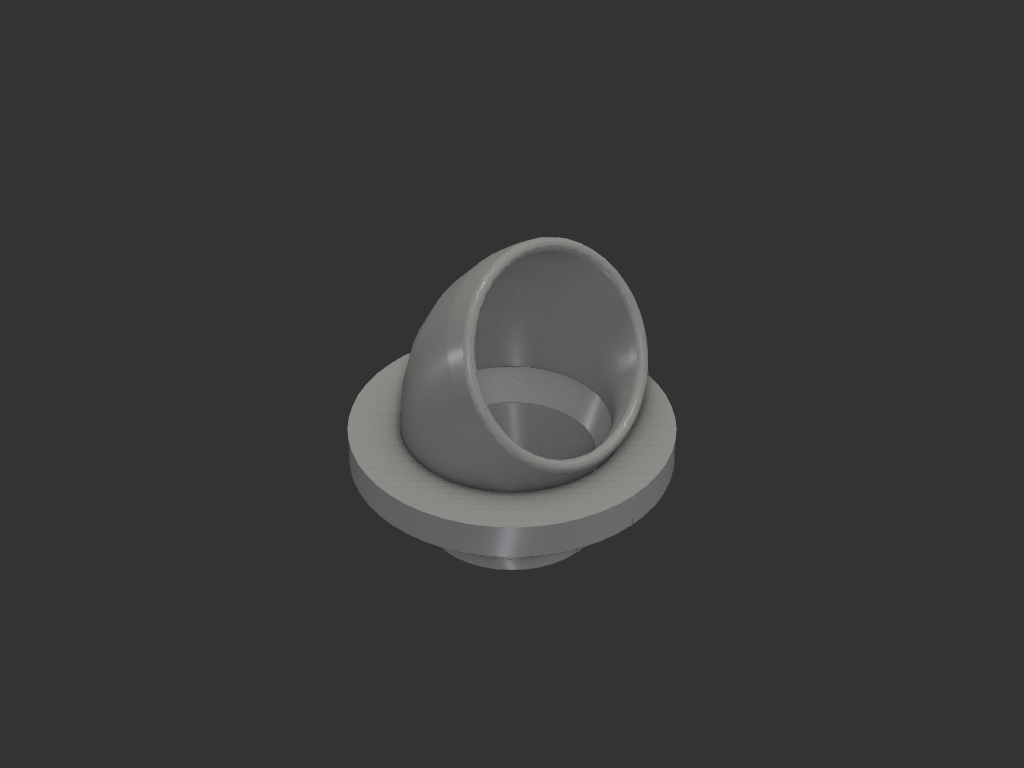
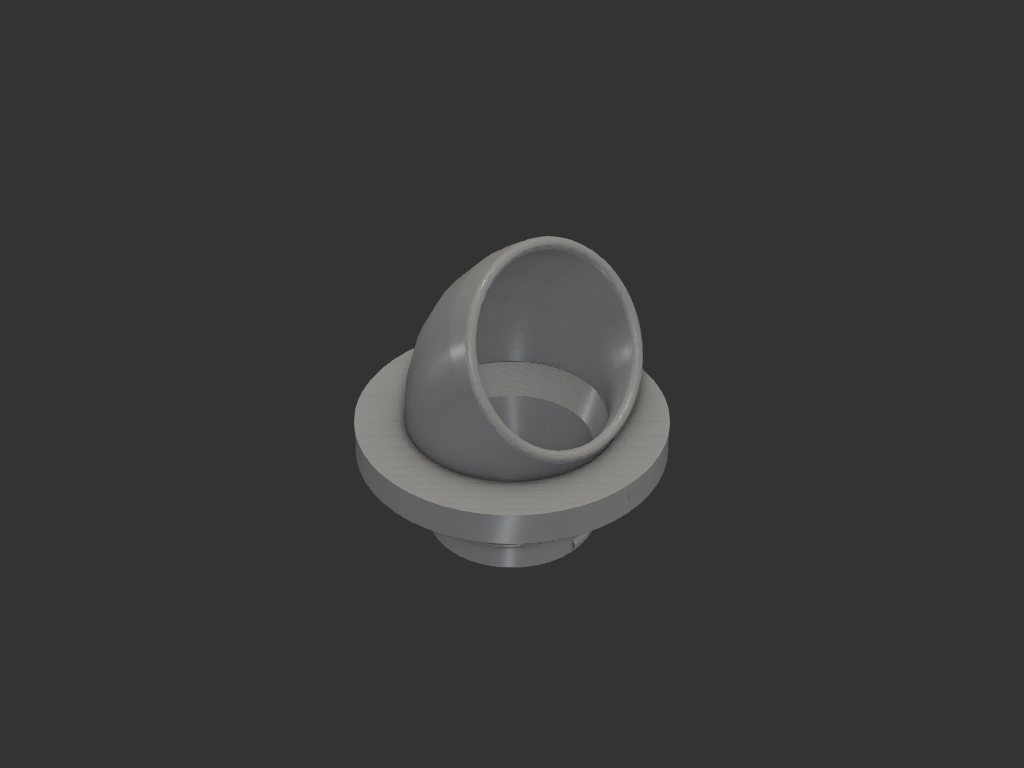
주방/식기세척기관_싱크대커버: 나사 여유 0.35 + 옆면 45도
두 번째 출력도 너트가 안 들어갔다. 모델 치수는 설계대로였고(칼라 산
r=15.500, 너트 골 r=15.050, 간섭 0) 문제는 출력으로 옮겨질 때였다.

① 여유 0.15 가 FDM 공차보다 작았다. 바깥 +0.1~0.2 / 구멍 -0.1~0.2 가
   두 파츠에 각각 작용해 설계 여유를 통째로 먹는다. 금속 나사 기준으로
   잡은 것이 착오. 0.15 → 0.35 (축 방향은 0.15 로 따로).

② 옆면이 수평에서 25도였다. 세워 뽑으니 아래 옆면이 65도 오버행이 되어
   처지고 골을 메웠다. 뿌리 반폭을 산 반폭 + 반지름 길이로 정해 정확히
   45도로 만들었다 (모델에서 기울기 1.001 = 45.0도 실측).

③ 파일럿 턱(⌀31.0)이 너트 보어(⌀30.3)보다 커서 상판 1mm 앞에서 막고
   있었다. 제거. 중심은 나사산 꼭대기(z=-0.9, 상판 속)가 잡는다.

45도로 만들면 프로파일이 넓어져 피치를 2.5 → 4.5 로 키웠다. 짝 나사산
뿌리폭 3.90 에 이웃 산 틈 0.60 이라 자기교차도 없다.

칼라살 0.65 → 0.55, 조임 400N 에서 인장 8.0 MPa (층간 30, 여유 3.8배).
너트에서 261 mm³ 가 실제로 깎인 것을 확인했다.

Claude-Session: https://claude.ai/code/session_01ADtXUDQy3sb4YV2DNysYDr

diff --git a/models/주방/식기세척기관_싱크대커버/cover.py b/models/주방/식기세척기관_싱크대커버/cover.py
@@ -60,7 +60,8 @@ from models.주방.식기세척기관_싱크대커버.params import (
     NUT_OD,
     THREAD_DEPTH,
     THREAD_FIT,
-    THREAD_FLANK,
+    THREAD_CREST,
+    THREAD_FIT_AX,
     THREAD_EMB,
     THREAD_GAP,
     THREAD_LEN,
@@ -94,9 +95,10 @@ def build_cover():
              - Plane.XY * Circle((ORING_MEAN - ORING_W) / 2))
 
     with BuildPart() as part:
-        # 칼라 — 맨 위 2mm 는 ⌀31.0 (구멍 안에서 중심을 잡는다),
-        # 그 아래는 나사 골지름 ⌀30.2
-        Cylinder(COLLAR_OD / 2, COLLAR_PILOT, align=TOP)
+        # 칼라 — 나사 골지름 ⌀29.6. 파일럿 턱은 없다 (너트를 막았다).
+        # 구멍 안에서의 중심은 나사산 꼭대기(⌀31.0)가 잡아준다
+        if COLLAR_PILOT > 0:
+            Cylinder(COLLAR_OD / 2, COLLAR_PILOT, align=TOP)
         with Locations((0, 0, -COLLAR_PILOT)):
             Cylinder(COLLAR_ROOT / 2, COLLAR_LEN - COLLAR_PILOT, align=TOP)
         Cylinder(FLANGE_D / 2, FLANGE_T, align=BOT)         # 플랜지 (상판 위)
@@ -145,22 +147,24 @@ THREAD_BOT = THREAD_TOP - THREAD_LEN
 THREAD_SEG = 4.0        # 한 번에 쓸어내는 길이 상한
 
 
-def _thread(grow=0.0):
-    """칼라 나사산. grow 를 주면 너트 쪽 여유 있는 짝이 된다.
+def _thread(radial=0.0, axial=0.0):
+    """칼라 나사산. radial/axial 을 주면 너트 쪽 여유 있는 짝이 된다.
 
     **빌더 밖에서** 만든다. 프로파일 평면의 x 축을 반지름 방향으로 고정해야
-    골 깊이가 의도대로 나온다 — 자동으로 두면 축 방향이 반지름이 되어
-    깊이가 pitch 만큼 깊어진다.
+    골 깊이가 의도대로 나온다.
 
-    그리고 **짧게 끊어서 이어 붙인다.** 한 번에 5 바퀴를 쓸면 프레네 프레임이
-    비틀려 솔리드가 자기교차하고, 불린이 조용히 망가진다 (합친 부피가 칼라
-    단품보다 작아지는 식으로 드러났다). is_frenet=False 로 피할 수는 있지만
-    그러면 프로파일이 기울어 깊이가 0.2 → 0.38 로 틀어진다.
+    옆면은 **정확히 45도**다 — 뿌리 반폭 a 를 산 반폭 b 에 반지름 길이를
+    더해서 정한다. 25도였을 때는 칼라를 세워 뽑으면 아래 옆면이 처져
+    골을 메웠다.
+
+    그리고 **짧게 끊어 이어 붙인다.** 한 번에 길게 쓸면 프레네 프레임이
+    비틀려 솔리드가 자기교차하고, 불린이 조용히 망가진다.
     """
     rmid = COLLAR_ROOT / 2 + THREAD_DEPTH / 2
-    d = THREAD_DEPTH / 2 + grow
-    a = THREAD_PITCH * THREAD_FLANK + grow
-    b = THREAD_PITCH * THREAD_FLANK * 0.5 + grow
+    d = THREAD_DEPTH / 2 + radial
+    run = 2 * d + THREAD_EMB
+    b = THREAD_CREST + axial
+    a = b + run                      # 옆면 45도
     nseg = max(1, math.ceil(THREAD_LEN / THREAD_SEG))
     seg = THREAD_LEN / nseg
     out = None
@@ -184,7 +188,7 @@ def _thread(grow=0.0):
 def build_nut():
     """너트 ② — 아래에서 칼라에 끼워 올려 조인다. 상판을 커버와 사이에 물고
     오링을 눌러준다. 조일 수 있으므로 상판 두께 편차를 그대로 흡수한다."""
-    mate = _thread(THREAD_FIT)
+    mate = _thread(THREAD_FIT, THREAD_FIT_AX)
     with BuildPart() as part:
         Cylinder(NUT_OD / 2, NUT_H, align=BOT)
         Cylinder(COLLAR_ROOT / 2 + THREAD_FIT, NUT_H, align=BOT, mode=Mode.SUBTRACT)

diff --git a/models/주방/식기세척기관_싱크대커버/README.md b/models/주방/식기세척기관_싱크대커버/README.md
@@ -38,7 +38,7 @@
 | | 파츠 | 역할 | 무게 |
 |---|---|---|---|
 | ① | `cover` | 상판 위 플랜지(아랫면 오링 홈) + 엘보 + 구멍을 지나는 칼라 | 17.4 g |
-| ② | `nut` | 아래에서 칼라에 끼워 올려 조인다. 상판을 물고 오링을 누른다 | 5.7 g |
+| ② | `nut` | 아래에서 칼라에 끼워 올려 조인다. 상판을 물고 오링을 누른다 | 6.9 g |
 
 조립:
 
@@ -97,15 +97,15 @@
 | 칼라 바깥 | ⌀**31.0** | 구멍 31.5 에 한쪽 0.25 |
 | 칼라 보어 | ⌀**28.5** | 22+6.35 최소원 28.35, 굵은부분 25.5 |
 | 칼라 벽 | **1.25** | 여기가 전부다 |
-| 칼라 길이 | 13 (파일럿 2 + 빈 1 + 나사 9) | 파일럿 ⌀31.0 이 구멍 안에서 중심을 잡는다 |
-| 나사 | 피치 **2.5**, 깊이 **0.6**, 골 ⌀29.8 | 물림 0.45. 남는 살 0.65. **3.6 바퀴** |
-| 나사 여유 | 0.15 (반지름) | |
+| 칼라 길이 | 15.5 (빈 2 + 나사 12) | **파일럿 턱 없음.** 나사산 꼭대기(z=−0.9)가 상판 속에서 중심을 잡는다 |
+| 나사 | 피치 **4.5**, 깊이 **0.70**, 골 ⌀29.6 | 옆면 **45°**. 물림 0.35. 남는 살 0.55. 2.7 바퀴 |
+| 나사 여유 | **0.35** 반지름 / 0.15 축 | FDM 공차를 견디려면 이만큼 필요하다 |
 | 플랜지 | ⌀**54** × **6** | 오링 굵기 3.5 에 맞춰 커졌다 |
 | 이음 모따기 | ⌀31 → ⌀34, **45°** | 가장 빠듯한 곳. 집중계수 3 → 1.8 |
 | 오링 홈 | **⌀38.0 ~ ⌀46.4**, 깊이 2.66 | **내경 38 × 굵기 3.5** (보유품). 눌림 24%, 채움 86% |
 | 엘보 | R 22, 60°, 보어 ⌀33, 벽 2 | |
 | 출구 나팔 | R 2.5 | 꺾이는 지점의 날카로운 모서리를 없앤다 |
-| 너트 | ⌀42 × 9, 홈 8 개 | 손으로 돌린다 |
+| 너트 | ⌀42 × **11**, 홈 8 개 | 피치가 굵어져 2.4 바퀴를 물려면 이만큼 필요 |
 | 상판 위 높이 | **38.8** | |
 
 오링 홈 안쪽 가장자리가 ⌀38.0 이라 구멍(31.5) 바깥 **단단한 상판 위에** 온전히
@@ -146,9 +146,9 @@
 
 | 부위 | 응력 | 여유 |
 |---|---|---|
-| 나사산 전단 (3.6 바퀴, 253 mm²) | 1.6 MPa | 19 배 |
+| 나사산 전단 (2.7 바퀴, 190 mm²) | 2.1 MPa | 14 배 |
 | 플랜지 굽힘 (유효 두께 3.34 = 6 − 홈 2.66) | 8.3 MPa | 6.1 배 |
-| 칼라 인장 (골에서 살 0.65mm) | 6.7 MPa | 4.5 배 |
+| 칼라 인장 (골에서 살 0.55mm) | 8.0 MPa | 3.8 배 |
 | **칼라–플랜지 이음** (모따기 Kt 1.8) | **9.2 MPa** | **3.3 배** ← 여기 |
 
 칼라 인장은 **층을 가로지르는 방향**이라 층간 강도 ~30 MPa 로 본다.
@@ -161,7 +161,51 @@
 필렛을 쓰려 했으나 실패했다 — 릴리프 안쪽이 칼라와 정확히 접해 모서리가
 생기지 않아 필렛이 안 걸렸고, 깔때기와 겹쳐 살을 0.6mm 로 깎기까지 했다.
 
-### 나사 깊이 — 0.4 는 모자랐다
+### 나사 — 두 번 실패하고 세 번째
+
+출력해 보니 두 번 다 너트가 안 들어갔다. 모델을 재보면 치수는 설계대로
+나와 있었다 (칼라 산 r=15.500, 너트 골 r=15.050, 간섭 0). 문제는
+**출력으로 옮겨질 때**였고, 원인이 둘이었다.
+
+**① 여유 0.15 는 FDM 공차보다 작다.**
+바깥 치수는 +0.1~0.2, 구멍은 −0.1~0.2 나온다. 두 파츠에 각각 작용하므로
+설계 여유를 통째로 먹는다. 금속 나사 기준으로 0.15 를 잡은 것이 착오였다.
+
+| 편차(각 면) | 0.15 일 때 | **0.35 일 때** |
+|---|---|---|
+| 0.10 | −0.05 간섭 | +0.15 |
+| 0.15 | −0.15 간섭 | **+0.05** |
+
+헐거우면 조임만 덜 되지만 빡빡하면 **조립 자체가 안 된다** — 위험이
+비대칭이라 넉넉한 쪽으로 간다.
+
+**② 옆면이 수평에서 25° 였다.**
+프로파일이 사다리꼴인데 너무 납작해서, 칼라를 세워 뽑으면 아래쪽 옆면이
+**65° 오버행**이 되어 처지고 골을 메웠다. 설계 간섭보다 실제로 더 끼었다.
+
+→ 뿌리 반폭을 산 반폭 + 반지름 길이로 정해 **정확히 45°** 로 만들었다
+(모델에서 1.001 기울기, 45.0° 로 실측 확인).
+
+45° 로 만들면 프로파일이 넓어져 피치도 같이 키워야 한다. 짝(너트) 나사산
+뿌리폭이 3.90 이라 피치 4.5 면 이웃 산까지 0.60 남는다.
+
+**③ 파일럿 턱이 너트를 1mm 앞에서 막고 있었다.**
+파일럿 ⌀31.0 이 너트 보어 ⌀30.3 보다 커서 못 지나갔다. 없앴다.
+구멍 안에서의 중심은 나사산 꼭대기(⌀31.0, z=−0.9 까지 올라옴)가 잡는다.
+
+| | 1 차 | 2 차 | **3 차** |
+|---|---|---|---|
+| 피치 | 2.0 | 2.5 | **4.5** |
+| 깊이 | 0.4 | 0.6 | **0.70** |
+| 여유(반지름) | 0.2 | 0.15 | **0.35** |
+| 옆면 각도 | 25° | 25° | **45°** |
+| 물림 | 0.20 | 0.45 | 0.35 |
+| 파일럿 | ⌀31 턱 | ⌀31 턱 | **없음** |
+| 칼라살 | 0.85 | 0.65 | 0.55 |
+
+칼라살이 0.55 로 줄지만 조임 400N 에서 인장 8.0 MPa, 층간 30 대비 3.8 배다.
+
+### (지난 기록) 나사 깊이 — 0.4 는 모자랐다
 
 처음에 깊이 0.4 / 여유 0.2 로 잡았다. **실제로 물리는 깊이가 0.2mm 뿐**이고,
 0.4 는 0.4 노즐 한 압출폭이라 출력에서 뭉개진다. 출력해 보니 너트가 아예
@@ -272,6 +316,11 @@ x≈6mm 이고 접지 폭이 30mm 라 쓰러지지는 않는다. 나사 아래 1
   더했더니 통로가 z 0~2 구간에서 도로 막혔다. 모따기는 보어보다 먼저 한다.
   그리고 **형상을 더한 뒤에는 통로가 끝까지 뚫렸는지 반드시 다시 잰다** —
   모따기와 오링 홈만 확인하고 보어는 안 봐서 놓쳤다
+- **프린팅 나사는 옆면이 수평에서 45° 이상**이어야 한다. 그보다 납작하면
+  세워 뽑을 때 아래 옆면이 처져 골을 메운다. 뿌리 반폭을 산 반폭 + 반지름
+  길이로 정하면 자동으로 45° 가 된다
+- **프린팅 나사의 반지름 여유는 0.25~0.35.** 금속 나사 기준(0.15)으로 잡으면
+  FDM 공차(각 면 ±0.1~0.2)가 통째로 먹는다
 - **짝(암) 나사산은 축 방향으로도 부푼다.** 프로파일 반폭 + 여유가 피치의
   절반에 가까워지면 이웃 산과 맞닿아 자기교차하고, 불린이 조용히 실패해
   **나사산이 아예 안 파인다.** 틈을 0.25mm 이상 남긴다
@@ -293,7 +342,10 @@ x≈6mm 이고 접지 폭이 30mm 라 쓰러지지는 않는다. 나사 아래 1
 
 ## 상태
 
-- **iter_011 — 현재.** 오링 홈 여유를 바깥으로만 몰아 안쪽 벽을 ⌀38 에
+- **iter_012 — 현재.** 두 번째 출력도 너트가 안 들어가 원인을 다시 팠다.
+  여유 0.15 → 0.35, 옆면 25° → **45°**, 피치 2.5 → 4.5, 파일럿 턱 제거.
+  재출력 필요
+- iter_011 — 오링 홈 여유를 바깥으로만 몰아 안쪽 벽을 ⌀38 에
   맞췄다. 오링이 안쪽 벽에 딱 앉는다 (안쪽 여유 0.53 → 0.00)
 - iter_010 — 출력 결과 반영. 너트 나사산이 모델에 없던 것을
   고치고(짝 프로파일 자기교차), 깊이 0.4 → 0.6 / 피치 2.0 → 2.5 로 물림을
